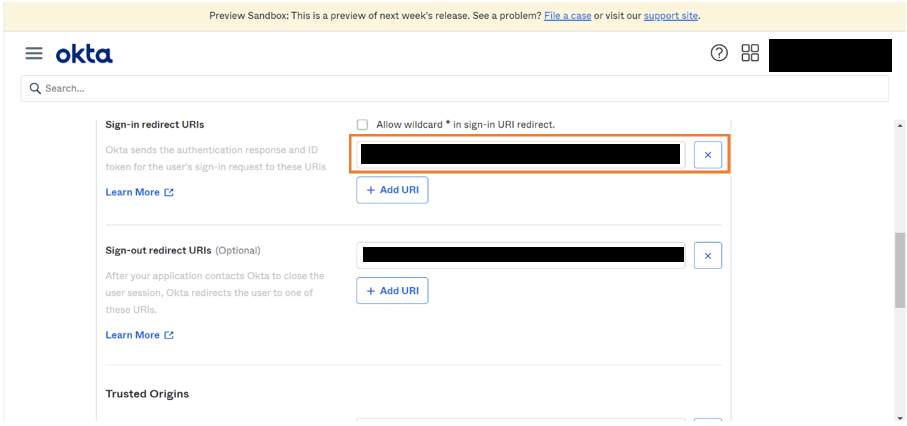
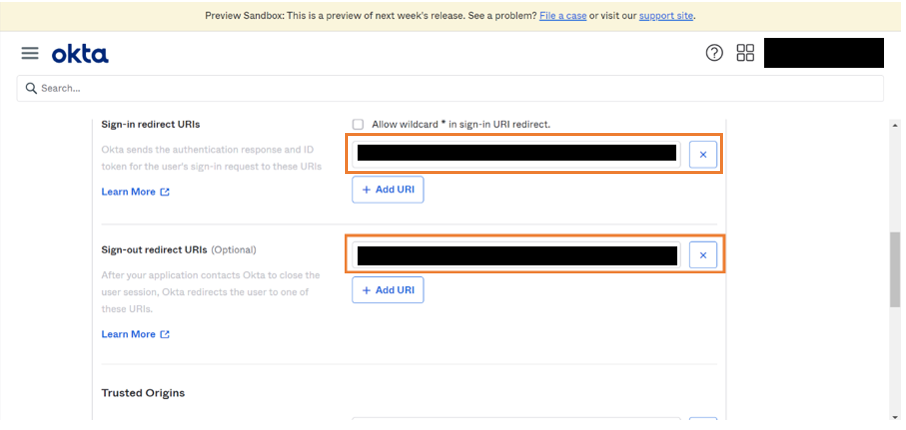
Edits

diff --git a/learn/how-tos/implement-openid-okta-provider.md b/learn/how-tos/implement-openid-okta-provider.md
@@ -56,21 +56,17 @@ Below are the steps to create an application in Okta Developer.
 
 [![](/learn/assets/wm_openid_ok9.png)](/learn/assets/wm_openid_ok9.png)
 
-5. Enter **sign-in redirect URL**.
+5. Enter **sign-in redirect URL** and **sign-out redirect URL**. 
 
 :::note
 - Sign-in redirect URL is available in WaveMaker authentication and authorization page.
+- Add v1/logout to the end of sign-in redirect URL and enter it as sign-out redirect URL.
+**Example:** 
+Sign-in redirect URL: https://example.com/okta
+Sign-out redirect URL: https://example.com/okta/v1/logout
 ::: 
 
 [![](/learn/assets/wm_openid_ok10.png)](/learn/assets/wm_openid_ok10.png)
-
-6. Enter **sign-out redirect URL**.
-
-:::note
-Add v1/logout to the end of sign-in redirect URL and enter it as sign-out redirect URL.
-::: 
-
-[![](/learn/assets/wm_openid_ok11.png)](/learn/assets/wm_openid_ok11.png)
 
 ### Restricting domain
 
